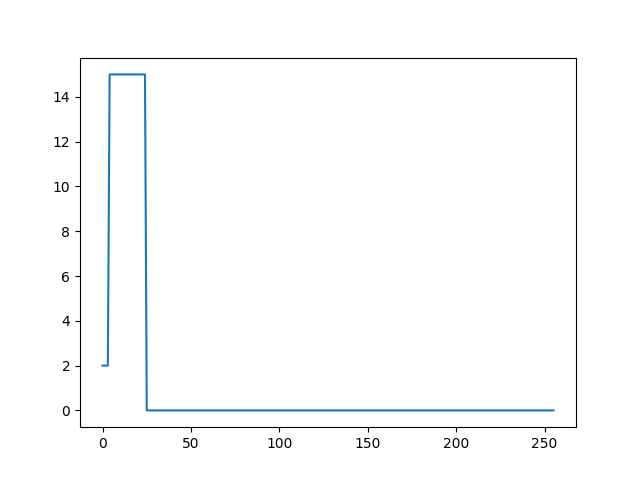
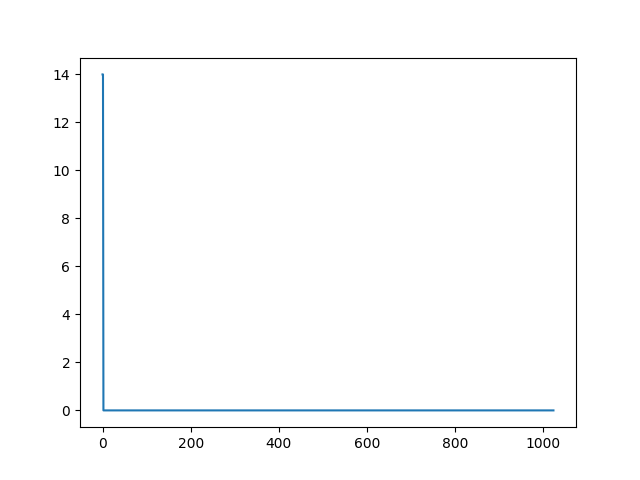
fully converged

diff --git a/roadmaps/adamsmap/adamsmap_main.py b/roadmaps/adamsmap/adamsmap_main.py
@@ -27,7 +27,7 @@ if __name__ == "__main__":
 
     # Training
     ntb = 256  # batch size
-    nts = 256  # number of batches
+    nts = 1024  # number of batches
 
     # Evaluation
     ne = 50  # evaluation set size
@@ -80,7 +80,10 @@ if __name__ == "__main__":
             [get_random_pos(im), get_random_pos(im)] for _ in range(ntb)])
         # Adam
         g_t_p, g_t_e, bc = grad_func(batch, nn, g, ge, posar, edgew)
-        print("Batch cost: %.2f" % bc)
+        if t == 0:
+            b_cost_initial = bc
+        print("Batch cost: %.2f (%-.1f%%)" %
+              (bc, 100. * (bc - b_cost_initial) / b_cost_initial))
         evalbc.append(bc)
 
         m_t_p = beta_1*m_t_p + (1-beta_1)*g_t_p
